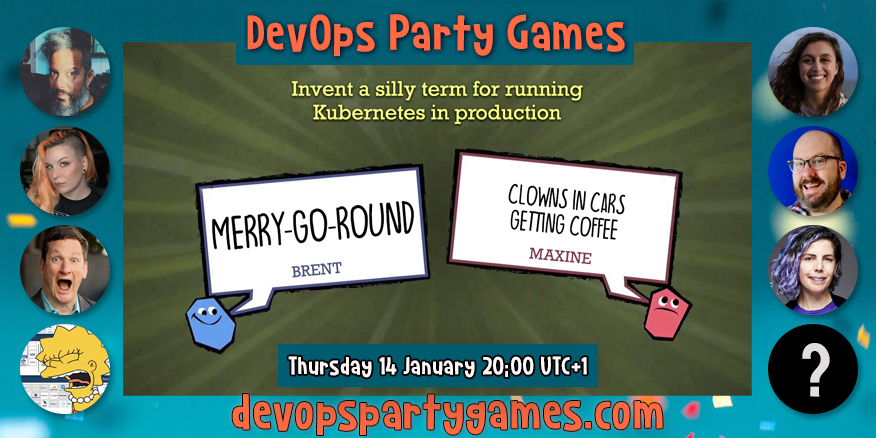
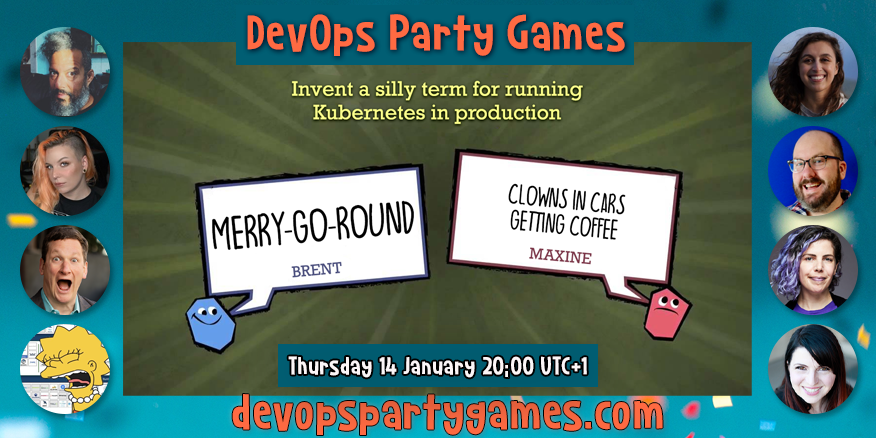
Add jessica west and update OG main image

Changed region(s): [[0.863, 0.742, 0.9863, 0.9498]]

diff --git a/src/components/seo.js b/src/components/seo.js
@@ -29,7 +29,7 @@ const SEO = ({ description, lang, meta, title, image }) => {
   )
 
   const metaDescription = description || site.siteMetadata.description
-  const defaultOpenGraphImage = '/images/episodes/s02e01-twittercard.png'
+  const defaultOpenGraphImage = '/images/episodes/s02e02-twittercard.png'
   const ogImageUrl = 
     site.siteMetadata.siteUrl +
     ( image || defaultOpenGraphImage )

diff --git a/src/pages/posts/s02e02.md b/src/pages/posts/s02e02.md
@@ -25,7 +25,7 @@ Join the livestream at [twitch.tv/mattstratton](https://twitch.tv/mattstratton)
 <a href = "https://twitter.com/cassidoo" class = "player-episode-page" target = "_blank"><img src = "/images/players/cassidy-williams.png" alt="Cassidy Williams" width="200" height="100" class = "player-episode-page"></a>
 <a href = "https://twitter.com/austinlparker" class = "player-episode-page" target = "_blank"><img src = "/images/players/austin-parker.png" alt="Austin Parker" width="200" height="100" class = "player-episode-page"></a>
 <a href = "https://twitter.com/iancoldwater" class = "player-episode-page" target = "_blank"><img src = "/images/players/ian-coldwater.png" alt="Ian Coldwater" width="200" height="100" class = "player-episode-page"></a>
-<a href = "https://twitter.com/devopspartygame" class = "player-episode-page" target = "_blank"><img src = "/images/players/mystery-guest.png" alt="Mystery Guest" width="200" height="100" class = "player-episode-page"></a>
+<a href = "https://twitter.com/jessicaewest" class = "player-episode-page" target = "_blank"><img src = "/images/players/jessica-west.png" alt="Jessica West" width="200" height="100" class = "player-episode-page"></a>
 
 <br clear = "all">
 
